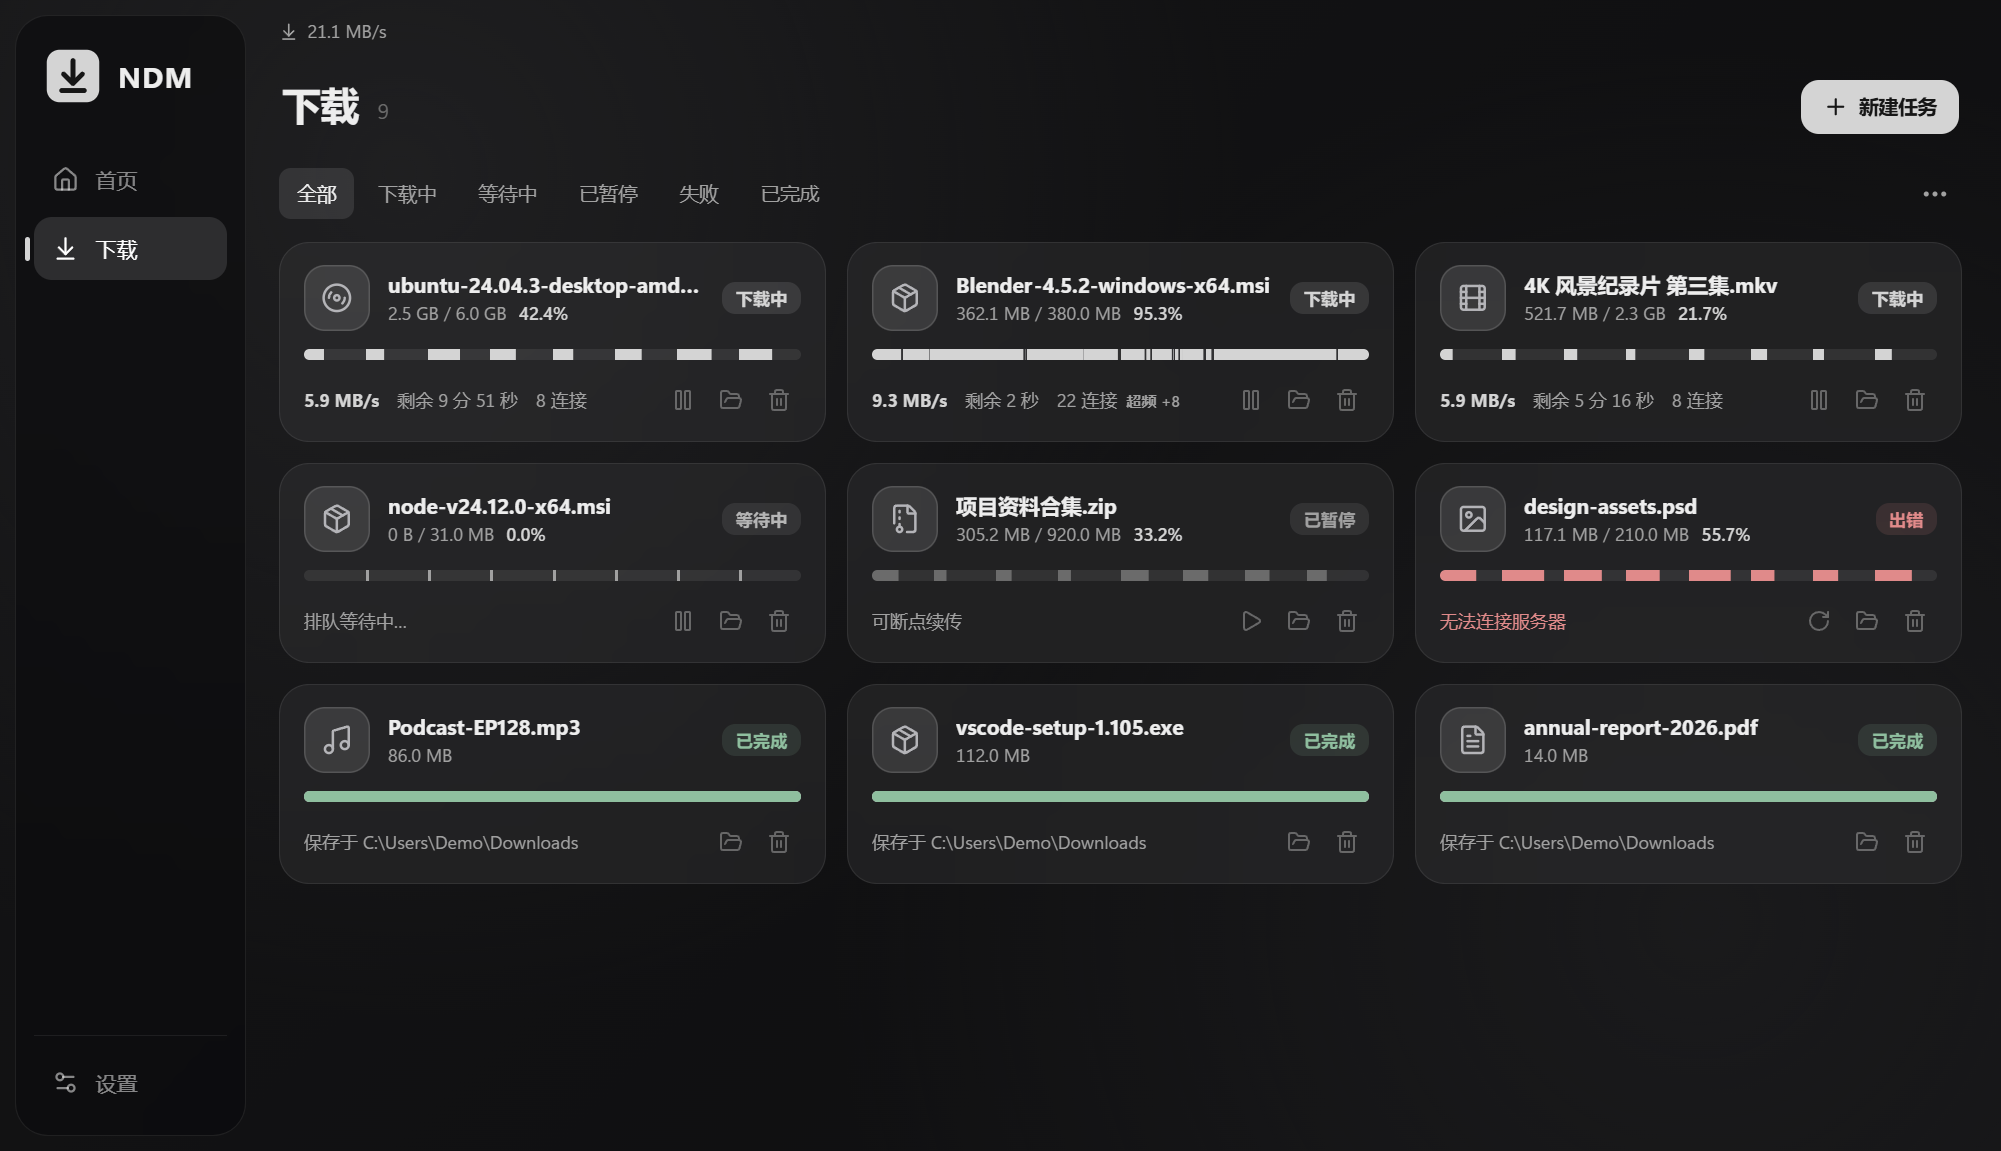
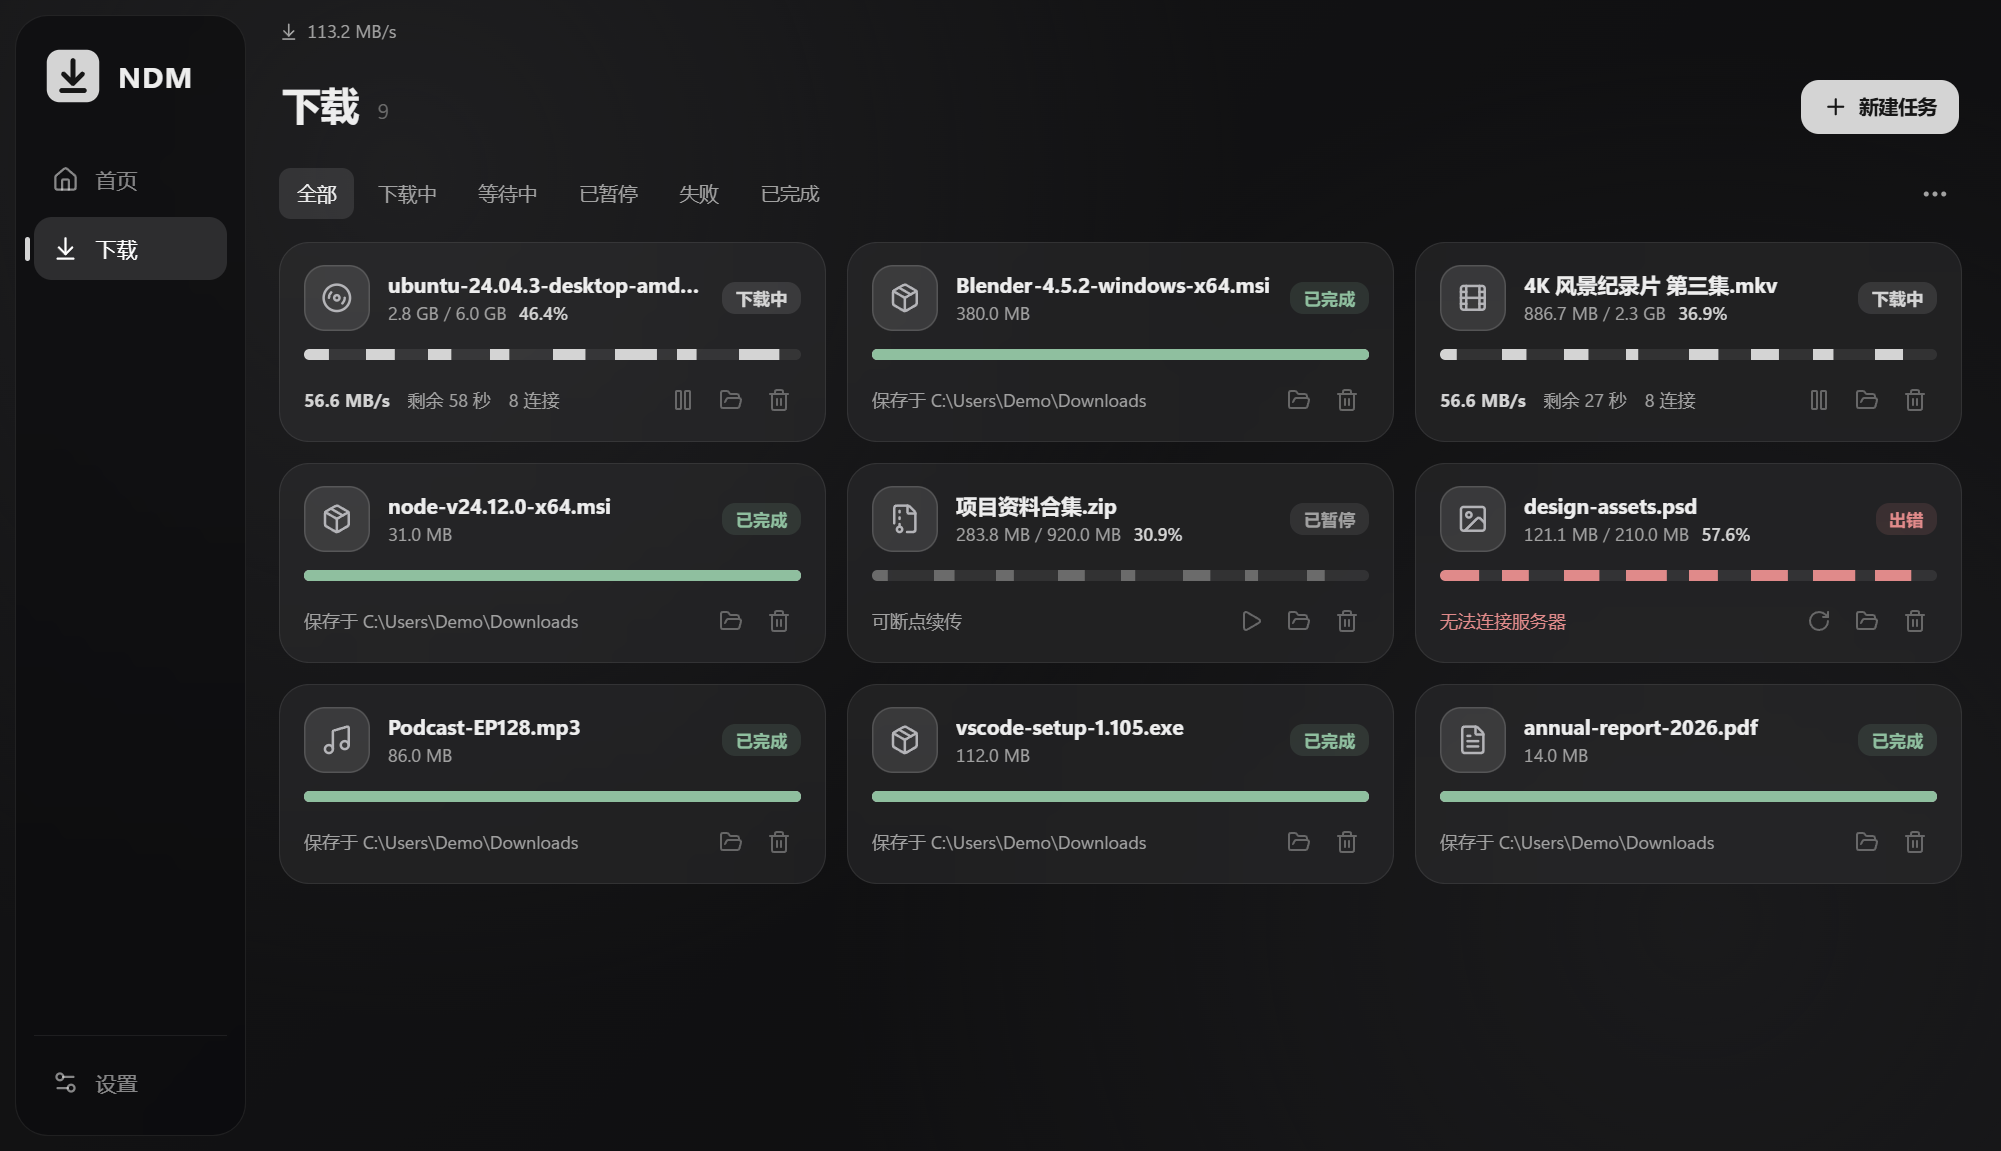
官网：速度数字改为千兆实测水平
- 3D 卡片速度胶囊改为 118.6 MB/s
- 数据条新增「120 MB/s 千兆宽带实测可跑满」
- 首屏截图换成约 113 MB/s 的下载状态，README 头图速度同步更新

diff --git a/docs/index.html b/docs/index.html
@@ -337,7 +337,7 @@
             <div class="segs"><i><b style="--p:1"></b></i><i><b style="--p:.8"></b></i><i><b style="--p:1"></b></i><i><b style="--p:.55"></b></i><i><b style="--p:.9"></b></i><i><b style="--p:.7"></b></i></div>
             <div class="bt"><span>稍后下载</span><span>开始下载</span></div>
           </div>
-          <div class="float speed" aria-hidden="true"><b>22.1 MB/s</b><span>32 连接 · 超频 +4</span></div>
+          <div class="float speed" aria-hidden="true"><b>118.6 MB/s</b><span>32 连接 · 超频 +4</span></div>
         </div>
       </div>
 
@@ -345,7 +345,7 @@
         <div class="stat glass"><b>2<small>MB</small></b><span>安装包大小</span></div>
         <div class="stat glass"><b>32<small>连接</small></b><span>每个任务最多连接数</span></div>
         <div class="stat glass"><b>+50<small>%</small></b><span>超频最多加开的连接</span></div>
-        <div class="stat glass"><b>0<small>广告</small></b><span>无广告、无追踪</span></div>
+        <div class="stat glass"><b>120<small>MB/s</small></b><span>千兆宽带实测可跑满</span></div>
       </div>
     </div>
   </header>

diff --git a/docs/banner/banner.html b/docs/banner/banner.html
@@ -92,8 +92,8 @@
       <path d="M0 80 C 30 78, 45 40, 70 36 S 110 52, 140 44 S 190 18, 220 22 S 270 40, 300 30 S 350 14, 388 18" fill="none" stroke="#d4d4d4" stroke-width="2"/>
     </svg>
     <div class="stats">
-      <div>速度<b>48.6 MB/s</b></div>
-      <div>剩余<b>37 秒</b></div>
+      <div>速度<b>118.6 MB/s</b></div>
+      <div>剩余<b>16 秒</b></div>
       <div>分段<b>32</b></div>
     </div>
   </div>
